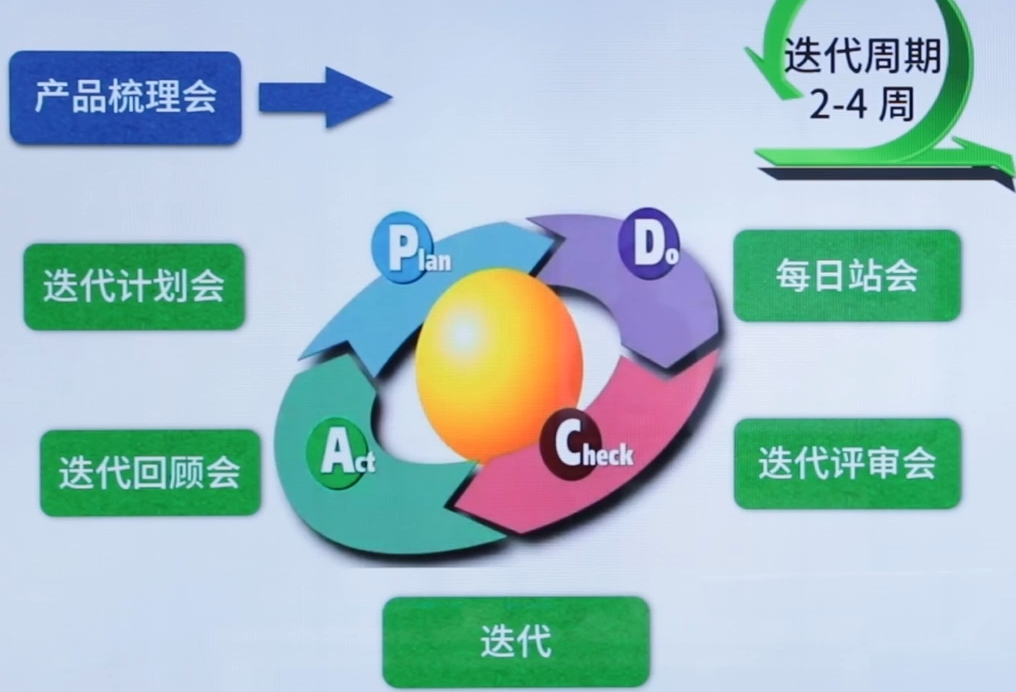
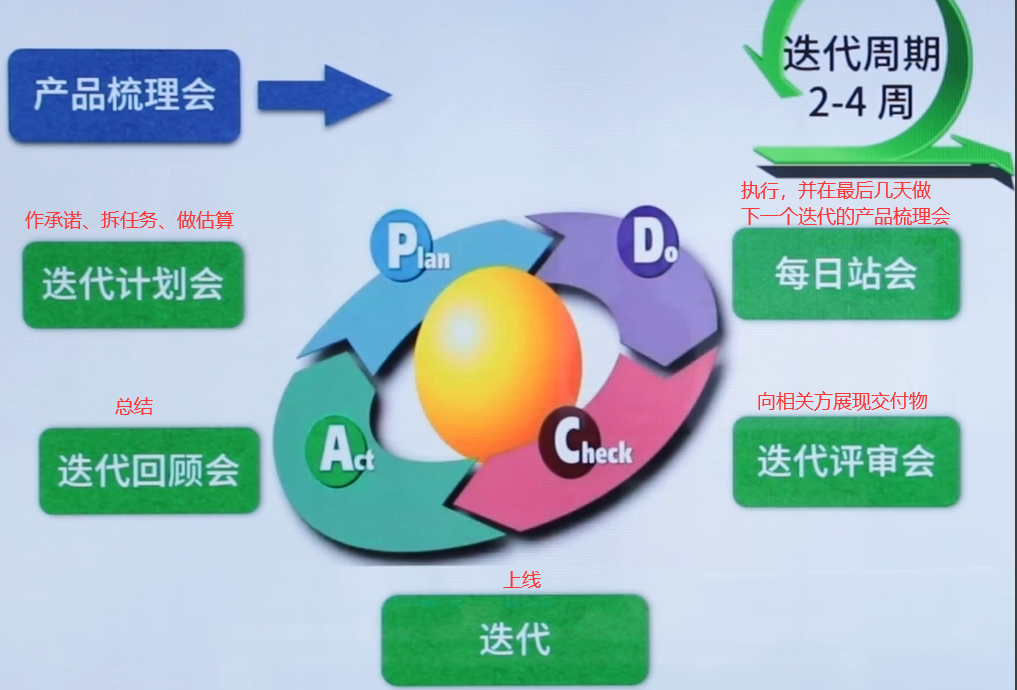
更新kanban体系

diff --git a/敏捷专题/敏捷专题课V1.0.md b/敏捷专题/敏捷专题课V1.0.md
@@ -332,10 +332,73 @@ Acceptance Criteria
 风险，技术，商业模式等
 ```
 
-**站会**
+#### 每日站会
 
 ```
 所有人都可以参加，但是只有PO、SM、Dev、Team可以说话；
 这个活动是用来做每日承诺的。而不是讨论会议。
+```
+
+#### 迭代评审会
+
+> 迭代产品验收评审
+
+```
+和外部交互的会议;
+原则上是计划会议时间的一半;
+这个活动输出的是份修订 的产品待办事项列表;
+这个活动在迭代最后倒数第二个去执行;
+这是为了和利益相关方的步调一致.
+```
+
+#### 迭代（上线）
+
+#### 迭代回顾会
+
+> 做代码的评审；
+> 对执行活动就行评审（包括执行中遇到的各种问题）。
+> *制定出行动项，不能说了白说。
+> *讲师建议:真的开这个活动的时候，只有开发团队和SM参与，其他人别来。
+
+```
+除站会外时间最短的活动；
+这个活动在迭代最后执行；
+这个活动书上写的是开发团队，产品负责人，SM,企业利益相关者整个团队、
+讲师建议:你真的开这个活动的时候，只有开发团队和SM参与，其他人别来。
+```
+
+# 三、精益与kanban体系
+
+## 1、区分【看板】和【kabban系统】
+
+> 看板：
+>
+> 	这是用来进行透明的，对于管理干系人的希望有促进作用；
+> 	燃尽图、燃起图、看板或任务版、风险看板等 都是为了信息展示。
+>
+> kanban
+>
+> ***重点关注：kanban没有时间箱概念。**
+>
+> 1.工作流程可视化（将所有工作流 识别出来 并进行 罗列）；
+> 2.限制在制品数量（限制某环境并发数，如最高同时开发3个功能点。更容易找到瓶颈针对优化）；
+> 3.度量和管理流动（）；
+> 4.显示化规则（将团队内的潜规则屏蔽，所有事显示出来）；
+> 5.建立反馈环路（按需开）；
+> 6.在协作及实验中改进。
+
+![](敏捷专题课V1.0.assets/1.5-看板与kanban.png)
+
+## 极限编程
+
+> 极限编程/反馈；所做的一切都是为了尽早拿到反馈。
+
+```
+重点实践:
+	持续集成、
+	TDD（测试驱动开发，先写测试用例在写代码）、
+	结对编程（两人一电脑；时间、物理、空间上两个人做一件事；）、
+	代码集体所有权、
+	小型发布
 ```
 
